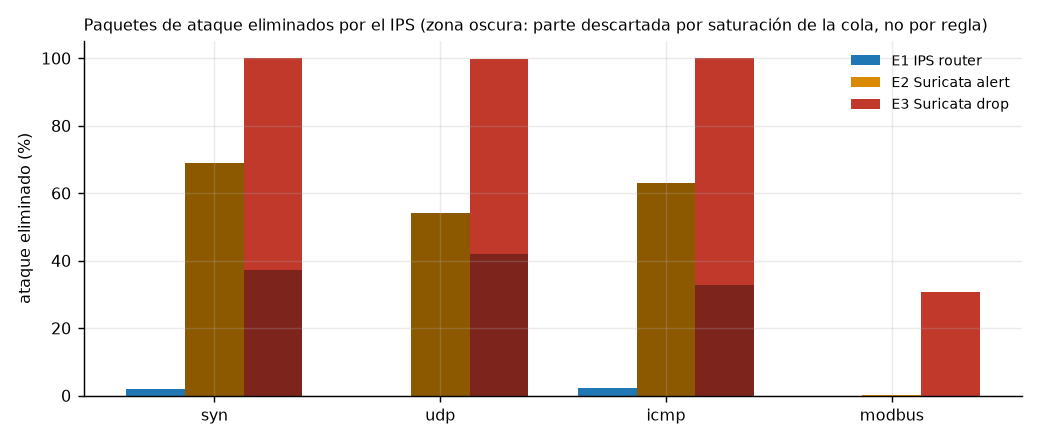
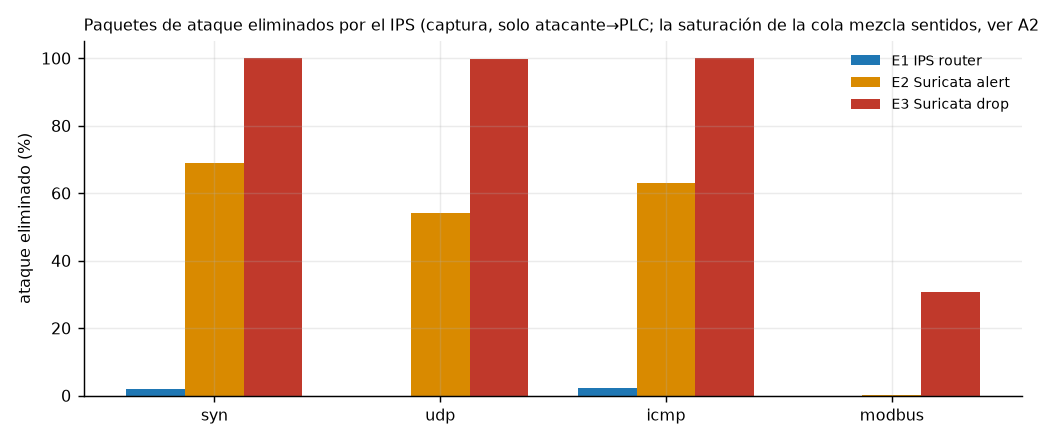
A21 explicada: conservación de paquetes NFQUEUE verificada en 80 corridas; análisis actualizado

diff --git a/lab/analysis/verificar_conservacion_nfq.py b/lab/analysis/verificar_conservacion_nfq.py
@@ -1,0 +1,39 @@
+#!/usr/bin/env python3
+"""Verifica la conservación de paquetes en las colas NFQUEUE por corrida (A21), solo con datos crudos.
+
+Todo paquete que entra a la cola (ambos sentidos: v20->v30 y v30->v20 pasan por `queue num 0-1`) termina en una de tres
+partes. Identidad que se comprueba:
+    c_fwd_v20_v30 + c_fwd_v30_v20  (contadores nftables, delta de la corrida)
+  = nfq_queue_dropped              (nfq_{pre,post}.txt, suma de colas)
+  + ips.blocked + ips.accepted     (suricata_stats.jsonl, delta de la corrida; valor acumulado de la última línea menos
+                                    el de la primera, porque eve.json se vacía al iniciar cada corrida)
+Salida: data/processed/conservacion_nfq_<plataforma>_<perfil>.csv y un resumen por celda (mín–máx del cociente).
+Uso: python3 -I lab/analysis/verificar_conservacion_nfq.py --platform laptop-dev --profile final
+"""
+import argparse, csv, json, os, collections
+ap = argparse.ArgumentParser(); ap.add_argument("--platform", required=True); ap.add_argument("--profile", default="final"); a = ap.parse_args()
+R = "data/raw/runs/"
+def ctr(d, w, n):
+    for x in json.load(open(f"{R}{d}/ips_counters_{w}.json"))["nftables"]:
+        c = x.get("counter")
+        if c and c["name"] == n: return c["packets"]
+def nfq(p):
+    return sum(int(l.split()[5]) for l in open(p) if l.split())
+def suri(d):
+    L = [json.loads(l)["ips"] for l in open(f"{R}{d}/suricata_stats.jsonl") if l.strip()]
+    return L[-1]["blocked"] - L[0]["blocked"], L[-1]["accepted"] - L[0]["accepted"]
+runs = [r for r in csv.DictReader(open("data/raw/runs.csv")) if r["platform"] == a.platform and r["run_profile"] == a.profile and r["status"] == "ok" and r["scenario"] in ("E2", "E3")]
+out = f"data/processed/conservacion_nfq_{a.platform}_{a.profile}.csv"; cel = collections.defaultdict(list)
+with open(out, "w", newline="") as fh:
+    w = csv.writer(fh); w.writerow(["run_id", "scenario", "attack", "nft_fwd_v20_v30", "nft_fwd_v30_v20", "entran_cola", "nfq_queue_dropped", "suri_blocked", "suri_accepted", "salen_cola", "cociente_salen_entran"])
+    for r in runs:
+        d = r["run_id"]
+        try:
+            f1 = ctr(d, "post", "c_fwd_v20_v30") - ctr(d, "pre", "c_fwd_v20_v30"); f2 = ctr(d, "post", "c_fwd_v30_v20") - ctr(d, "pre", "c_fwd_v30_v20")
+            dr = nfq(f"{R}{d}/nfq_post.txt") - nfq(f"{R}{d}/nfq_pre.txt"); b, ac = suri(d)
+        except Exception as e:
+            print("sin datos:", d, e); continue
+        q = (f1 + f2) or 1; ratio = (dr + b + ac) / q
+        w.writerow([d, r["scenario"], r["attack"], f1, f2, f1 + f2, dr, b, ac, dr + b + ac, round(ratio, 4)]); cel[(r["scenario"], r["attack"])].append(ratio)
+for k, v in sorted(cel.items()): print(k, f"n={len(v)} cociente {min(v):.4f}–{max(v):.4f}")
+print("->", out)

diff --git a/lab/analysis/analisis_final.py b/lab/analysis/analisis_final.py
@@ -101,13 +101,8 @@ for j, s in enumerate(["E1", "E2", "E3"]):
     for a in AT:
         v = [f(r, "cap_removed_pct") for r in by.get((s, a), [])]; v = [x for x in v if x is not None]; ys.append(st.mean(v) if v else 0)
     ax.bar([i + (j - 1) * w for i in range(len(AT))], ys, w, color=COL[s], label=NOM[s])
-    if s != "E1":
-        for i, a in enumerate(AT):
-            sat = lambda r: (lambda D, C: 100 * D / (D + C) if D is not None and C is not None and D + C > 0 else None)(f(r, "nfq_queue_dropped"), f(r, "suri_ips_blocked"))
-            v = [f(r, "cap_removed_pct") * sat(r) / 100 for r in by.get((s, a), []) if f(r, "cap_removed_pct") is not None and sat(r) is not None]
-            if v: ax.bar(i + (j - 1) * w, st.mean(v), w, color="#000", alpha=.35)
 ax.set_xticks(range(len(AT))); ax.set_xticklabels(AT); ax.set_ylabel("ataque eliminado (%)"); ax.set_ylim(0, 105)
-ax.set_title("Paquetes de ataque eliminados por el IPS (zona oscura: parte descartada por saturación de la cola, no por regla)", loc="left", fontsize=9)
+ax.set_title("Paquetes de ataque eliminados por el IPS (captura, solo atacante→PLC; la saturación de la cola mezcla sentidos, ver A21)", loc="left", fontsize=9)
 ax.legend(frameon=False, fontsize=8); fig.tight_layout(); fig.savefig(f"{FIG}/{A.platform}_{A.profile}_a4_eliminacion_ips.png"); plt.close(fig)
 
 # ---- a5: térmica por corrida, en orden cronológico ----

diff --git a/docs/lab/05_problemas_anomalias.md b/docs/lab/05_problemas_anomalias.md
@@ -128,8 +128,8 @@ Todo lo raro, aunque se resuelva: síntoma, hipótesis, evidencia y resolución.
 - **Tratamiento de los datos (sin estimar ni rellenar):** `runs.csv` no se modifica y los campos vacíos se quedan vacíos. `lab/analysis/muestras_guard_por_corrida.py` copia, para las 7 corridas afectadas, muestras *reales* del CSV del guardián (Tctl en `t0`, Tctl al final del enfriamiento con su marca de tiempo, estados y Tctl máximo de la ventana) a `data/processed/runs_guard_muestras_laptop-dev_final.csv`. No son los campos ausentes (el arnés los leía en otros instantes: `tctl_end_c` se toma tras el procesado y suele ser mayor) y no se presentan como tales. El Tctl por segundo de cada corrida sigue en `ts_host.csv`. Un primer intento de reconstruir los campos con un desfase calibrado se descartó por ser una estimación (regla de `CLAUDE.md`).
 - **Pendiente (no urgente):** `guard.sh` sigue sin rotar su CSV a medianoche; es inocuo con la corrección, pero el archivo diario puede abarcar más de un día.
 
-## A21. En E2 con syn e icmp, los descartes por saturación (NFQUEUE) superan en 29–39 % a los paquetes que la captura ve desaparecer (SIN EXPLICAR)
-- **Observación (tanda real, laptop-dev, perfil `final`, 10 corridas por celda):** cociente `(suri_ips_blocked + nfq_queue_dropped) / cap_attack_removed`. E3 (syn, udp, icmp, modbus) y E2 udp: 1,00 en todas las corridas. **E2 syn: 1,29–1,33. E2 icmp: 1,33–1,39.** Ejemplo, E2 syn: la captura ve 6,95 M de paquetes de ataque eliminados entre la VLAN 20 y la VLAN 30; `nfq_queue_dropped` marca 9,18 M y `suri_ips_blocked` 0 (modo alert).
-- **Qué se descartó:** el descarte de la captura (`cap_drop_pct`) es como máximo 2,2 % en E2, muy por debajo de la diferencia. No se ha comprobado si el contador NFQUEUE incluye paquetes que no son de ataque ni si hay doble conteo entre las dos colas (D18).
-- **Estado:** **no se explica y no se afirma ninguna causa.** Según `CLAUDE.md`, el % de "ataque eliminado" y la parte por saturación de E2 syn/icmp no deben citarse como resultado hasta resolverla. La disponibilidad, el RTT y las demás métricas no dependen de estos dos contadores.
-- **Siguiente paso propuesto:** comparar las tres fuentes (captura VLAN 20/30, contadores nftables y NFQUEUE) corrida por corrida en E2 syn/icmp y revisar cómo `summarize_runs.py` suma las dos colas.
+## A21. En E2 con syn e icmp, los descartes de NFQUEUE superaban a los paquetes de ataque que la captura veía desaparecer (EXPLICADA: no es un fallo de datos, es el sentido del tráfico)
+- **Observación (tanda real, laptop-dev, perfil `final`):** cociente `(suri_ips_blocked + nfq_queue_dropped) / cap_attack_removed`: 1,00 en E3 y E2 udp, pero 1,29–1,39 en E2 syn e icmp (ejemplo E2 syn: captura 6,95 M eliminados frente a `nfq_queue_dropped` 9,18 M).
+- **Causa:** las colas NFQUEUE (`queue num 0-1`) reciben los dos sentidos, v20→v30 y v30→v20 (`nftables-nfq.conf`), así que `nfq_queue_dropped`, `ips.accepted` y `ips.blocked` cuentan también las **respuestas del PLC** (SYN-ACK/RST, ecos ICMP, respuestas Modbus), mientras que `cap_attack_removed` solo cuenta paquetes del atacante hacia el PLC (`pcap_count.py`: `src==ATT and dst==PLC`). En syn e icmp el PLC responde (3,4–3,7 M de paquetes en sentido inverso por corrida) y en udp y en E3 casi no hay respuestas, por eso ahí el cociente era 1,00.
+- **Verificación independiente (`lab/analysis/verificar_conservacion_nfq.py`, salida en `data/processed/conservacion_nfq_laptop-dev_final.csv`):** para las 80 corridas E2/E3, `c_fwd_v20_v30 + c_fwd_v30_v20 = nfq_queue_dropped + ips.blocked + ips.accepted` con cociente 1,0000–1,0001 (E3 modbus 0,998–1,006). Los contadores de nftables, NFQUEUE y Suricata son coherentes entre sí.
+- **Consecuencia para el análisis:** `cap_removed_pct` (captura, solo atacante→PLC) es la métrica válida de "ataque eliminado". `sat_pct` de `stats_tables.py` (`queue_dropped / (queue_dropped + blocked)`) mezcla ambos sentidos: en E3 syn, udp e icmp el sentido inverso es casi nulo y es utilizable, pero **en E2 syn e icmp no debe citarse como saturación del ataque**. Con los contadores actuales no se puede separar los descartes por sentido (la cola no distingue). Si el paper necesita esa separación, hay que añadir un contador de descartes por sentido en una corrida de calibración posterior (decisión pendiente).

diff --git a/docs/lab/09_analisis_tanda_real_laptop-dev.md b/docs/lab/09_analisis_tanda_real_laptop-dev.md
@@ -40,12 +40,14 @@ Figuras: `figures/laptop-dev_final_a1_disponibilidad.png`, `a2_rtt_p95.png`, `a3
 - Todas las corridas finales tienen `status=ok`, pero la mayoría trae WARN: descarte de la captura (dumpcap) y huecos >250 ms en el poller. **El descarte llega a 13,8 % en E1 syn y 9,5 % en E1 icmp**, por lo que `% eliminado` en E1 (≈2 %) refleja el descarte de la captura y no un efecto del IPS (en router no elimina nada). En E2/E3 el descarte máximo es 2,2 %.
 - **A20 (arranque frío en 6 corridas, y 1 más con campos vacíos):** ver `05_problemas_anomalias.md` y L7. La comparación con el resto no mostró diferencia en E1; en E3 ICMP la disponibilidad fue algo menor (n pequeño, rangos solapados; figura `a6`). No se concluye nada y no se repitieron.
 
-## 4. Segunda fuente y anomalía abierta (A21)
+## 4. Segunda fuente y anomalía A21 (explicada)
 
-El cociente entre los descartes que ve Suricata/NFQUEUE y los paquetes que desaparecen entre la VLAN 20 y la 30 en la captura es 1,00 en E3 y en E2 udp, pero **1,29–1,39 en E2 syn e icmp (A21, sin explicar)**. Hasta resolverla, el "% de ataque eliminado" y la parte por saturación de esas dos celdas (figura `a4_eliminacion_ips.png`) no deben citarse como resultado. La disponibilidad y el RTT no dependen de esos contadores.
+El cociente entre los descartes de Suricata/NFQUEUE y los paquetes que desaparecen entre la VLAN 20 y la 30 en la captura era 1,00 en E3 y E2 udp y 1,29–1,39 en E2 syn e icmp. **La causa es el sentido del tráfico:** las colas reciben también las respuestas del PLC y la captura solo cuenta atacante→PLC. Comprobación independiente en las 80 corridas E2/E3: entradas a la cola (`c_fwd_v20_v30 + c_fwd_v30_v20`) = `queue_dropped + blocked + accepted`, con cociente 1,0000–1,0001 (`data/processed/conservacion_nfq_laptop-dev_final.csv`). Los tres conjuntos de contadores son coherentes.
+
+Consecuencias: el "% de ataque eliminado" válido es el de la captura (figura `a4_eliminacion_ips.png`). La parte "por saturación" (`sat_pct`) solo es utilizable en E3 syn/udp/icmp (sentido inverso casi nulo); en E2 syn/icmp mezcla ambos sentidos y no se cita. Detalle en A21.
 
 ## 5. Qué falta
-1. Explicar A21 comparando captura, nftables y NFQUEUE corrida por corrida.
+1. Decidir si se añade un contador de descartes por sentido (hoy no separable) para citar la saturación en E2.
 2. Tasa de detección por regla (`detect.alert` / paquetes entregados a Suricata) en E2/E3, aún sin analizar aquí.
 3. Decidir si se añaden corridas E3 ICMP adicionales (reps 11+) para cerrar la duda de A20.
 4. Repetir el análisis con `pc-miguel`; los números del paper salen solo de esa plataforma.

diff --git a/docs/lab/00_diario.md b/docs/lab/00_diario.md
@@ -27,3 +27,4 @@
   - Calibración de la regla Modbus (D20): ni el umbral de 20/s ni `flowbits` evitan la caída. Se deja la rev 3 y la decisión abierta.
   - `check_chain.sh` final: 0 NO CUMPLE.
 - 2026-11-18 (UTC, laptop-dev): tanda real completa (130 corridas `final`, 5 bloques, 21:26–04:15 UTC). Anomalía A20 (control térmico leía el CSV del guardián por la fecha UTC; corregido en `run_once.sh`, commit `c6805e0`; 7 corridas con campos térmicos vacíos, L7). Análisis inicial en `docs/lab/09_analisis_tanda_real_laptop-dev.md` y figuras con `lab/analysis/analisis_final.py`. Abierta: A21 (descartes NFQUEUE frente a captura en E2 syn/icmp).
+- 2026-11-18 (UTC, laptop-dev): A21 explicada (las colas NFQUEUE cuentan también las respuestas del PLC; la captura solo atacante→PLC). Conservación de paquetes verificada en 80 corridas E2/E3 (`lab/analysis/verificar_conservacion_nfq.py`).
